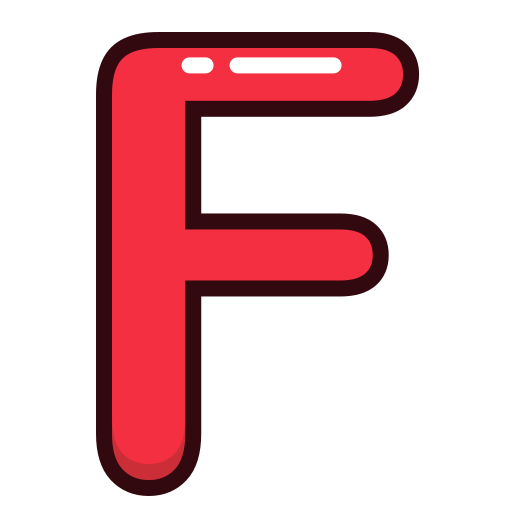
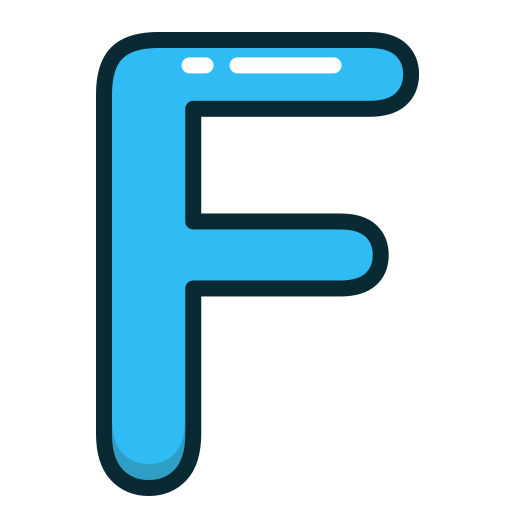
doi mau chu

Changed region(s): [[0.1875, 0.0625, 0.8438, 0.9688]]

diff --git a/LearnWithPenguin/ViewModel/MainViewModel.cs b/LearnWithPenguin/ViewModel/MainViewModel.cs
@@ -142,6 +142,7 @@ namespace LearnWithPenguin.ViewModel
             {
                 return new RelayCommand<object>((p) => { return true; }, (p) =>
                 {
+                    _music.Play();
                     NavigatetoHome = new UserViewModel();
                     Menu = null;
                 });
